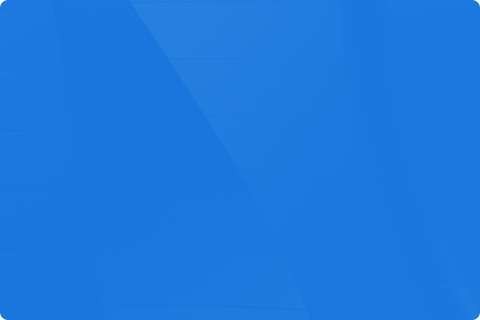
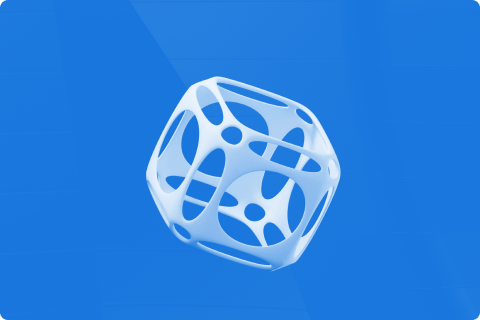
update

Changed region(s): [[0.2812, 0.2188, 0.7188, 0.8438]]

diff --git a/src/sections/built-in/index.tsx b/src/sections/built-in/index.tsx
@@ -6,18 +6,18 @@ function BuiltIn() {
   return (
     <div className="w-full py-[64px] sm:py-[120px] bg-[#f0f9fe]" id="about">
       <div className="main-container">
-        <div className="justify-start items-center gap-10 sm:gap-5 flex flex-col sm:flex-row">
-          <div className="w-full sm:w-[480px] h-auto sm:h-80 relative rounded-lg">
+        <div className="justify-center items-center gap-10 sm:gap-5 flex flex-col sm:flex-row">
+          <div className="grow shrink basis-0 w-full sm:w-[480px] h-auto sm:h-80 relative flex justify-end">
             <Image
               className=""
               src={ic_section_2}
               alt="bg"
             />
-            <Image
+            {/* <Image
               className="mix-blend-screen -top-5 left-0 w-full absolute"
               src={ic_section_32}
               alt="bg"
-            />
+            /> */}
           </div>
           <div className="grow shrink basis-0 px-0 sm:px-6 2xl:px-24 flex-col justify-start items-start gap-6 inline-flex">
             <div className="self-stretch text-[#1c1f2a] text-[28px] sm:text-[38px] font-semibold font-nacelle leading-[41.80px]">
@@ -29,12 +29,12 @@ function BuiltIn() {
                 context because it provides the technical flexibility necessary
                 to optimally apply improvements in user experience.{" "}
               </div>
-              <div className="grow shrink basis-0 text-[#64656a] text-lg font-normal font-interTight leading-[27px]">
+              {/* <div className="grow shrink basis-0 text-[#64656a] text-lg font-normal font-interTight leading-[27px]">
                 This means that advanced features that can either implement
                 complex functionalities or abstract difficult user experiences
                 can be applied without a complicated upgrade, i.e. soft or hard
                 fork, of the base layer.
-              </div>
+              </div> */}
             </div>
             <a className="self-stretch justify-start items-start gap-5 inline-flex" href="#enterprise">
               <div className="grow shrink basis-0 text-left text-[#3189e2] text-lg font-semibold font-interTight leading-[27px] hover:text-blue-400 animate-bounce">

diff --git a/src/sections/partners/index.tsx b/src/sections/partners/index.tsx
@@ -483,17 +483,17 @@ const partners = [
           <path
             id="Vector_4"
             d="M7.68039 14.0514C7.04352 14.5823 6.63333 15.2269 6.50917 15.7415L4.11279 26.5975H4.24773C4.99255 26.5975 5.6942 26.332 6.33108 25.8065C6.97335 25.2811 7.37815 24.6364 7.53466 23.8943L8.14995 21.1369H13.2936C14.0384 21.1369 14.7454 20.8716 15.3877 20.3461C16.03 19.8206 16.4402 19.1706 16.6021 18.423L16.6291 18.2876H8.78683L9.26719 16.1153H16.6992C17.4441 16.1153 18.1457 15.8499 18.788 15.3298C19.4248 14.8044 19.8189 14.1489 19.9915 13.4067L20.0239 13.2713H9.76374C9.01891 13.2605 8.31727 13.5259 7.68039 14.0514Z"
-            fill="#090F14"
+            fill="#ffffff"
           />
           <path
             id="Vector_5"
             d="M60.0381 13.9062C59.628 13.4945 59.0882 13.2832 58.4406 13.2832H48.1857L48.1695 13.3753C48.1316 13.5757 48.1101 13.7653 48.1101 13.9441C48.1101 14.5725 48.3206 15.0979 48.7309 15.5151C49.1465 15.9268 49.6808 16.138 50.3337 16.138H52.5467L50.3231 26.5986H50.4633C51.2082 26.5986 51.9044 26.3331 52.5413 25.8131C53.1781 25.2875 53.5722 24.643 53.7288 23.8953L55.3749 16.1326H60.5886L60.6048 16.0405C60.6427 15.8509 60.6642 15.6505 60.6642 15.4555C60.6589 14.8379 60.4484 14.3179 60.0381 13.9062Z"
-            fill="#090F14"
+            fill="#ffffff"
           />
           <path
             id="Vector_6"
             d="M37.5432 13.2613H30.6131L30.6186 13.2505H27.7687L24.9407 26.5982H25.0755C25.8203 26.5982 26.522 26.3329 27.1534 25.8074C27.7849 25.2818 28.1843 24.6373 28.3409 23.8952L28.9184 21.154H35.9132C36.658 21.154 37.3544 20.8887 37.9911 20.3685C38.6226 19.8485 39.0275 19.1984 39.1948 18.4401L39.7184 16.0295C39.7561 15.8399 39.7776 15.6449 39.7776 15.4444C39.7776 14.8269 39.5672 14.3068 39.1462 13.8897C38.7361 13.4726 38.191 13.2613 37.5432 13.2613ZM29.9978 16.1161H36.8632L36.3883 18.2992H29.523L29.9978 16.1161Z"
-            fill="#090F14"
+            fill="#ffffff"
           />
         </g>
         <defs>

diff --git a/src/app/ecosystem/page.tsx b/src/app/ecosystem/page.tsx
@@ -282,7 +282,7 @@ function Ecosystem() {
     <div className="mb-[60px] lg:mb-[160px] pt-[100px] sm:pt-[192px]">
       <div className="main-container">
         <div className="flex flex-col items-center gap-6 lg:gap-16 w-full lg:mt-0">
-          <div className="flex-col justify-start items-center gap-4 inline-flex">
+          <div className="flex-col justify-start items-center gap-4 inline-flex w-full">
             <div className="self-stretch text-[#1c1f2a] text-[50px] font-semibold font-nacelle leading-[55px]">
               Ecosystem
             </div>
